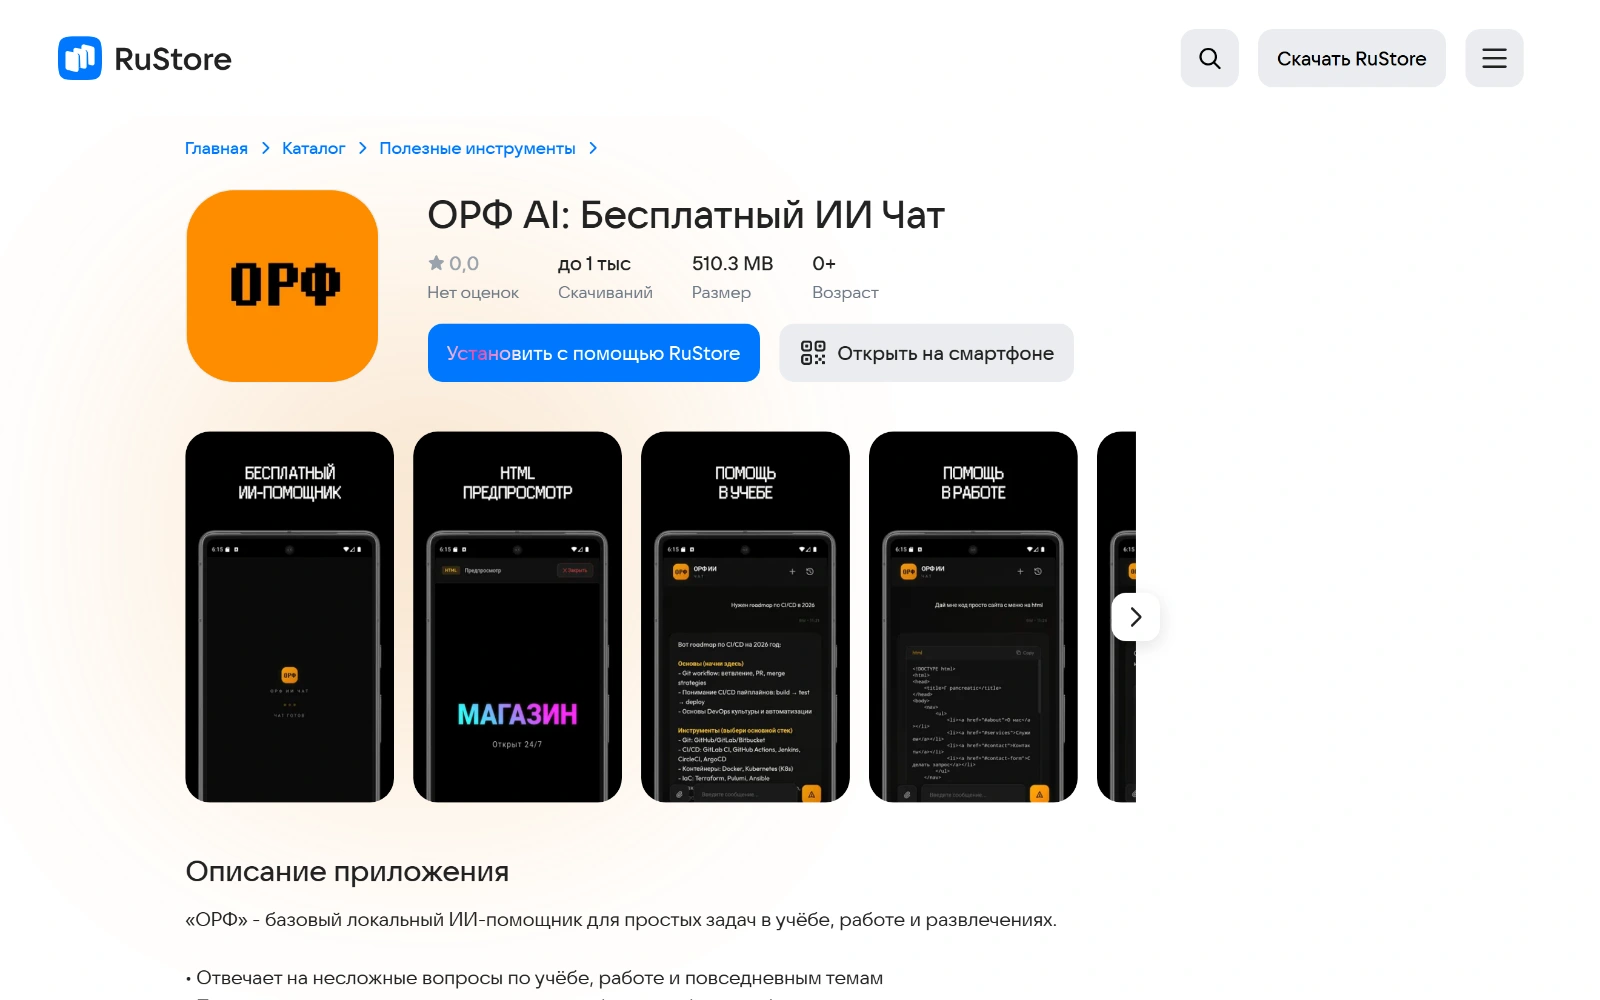
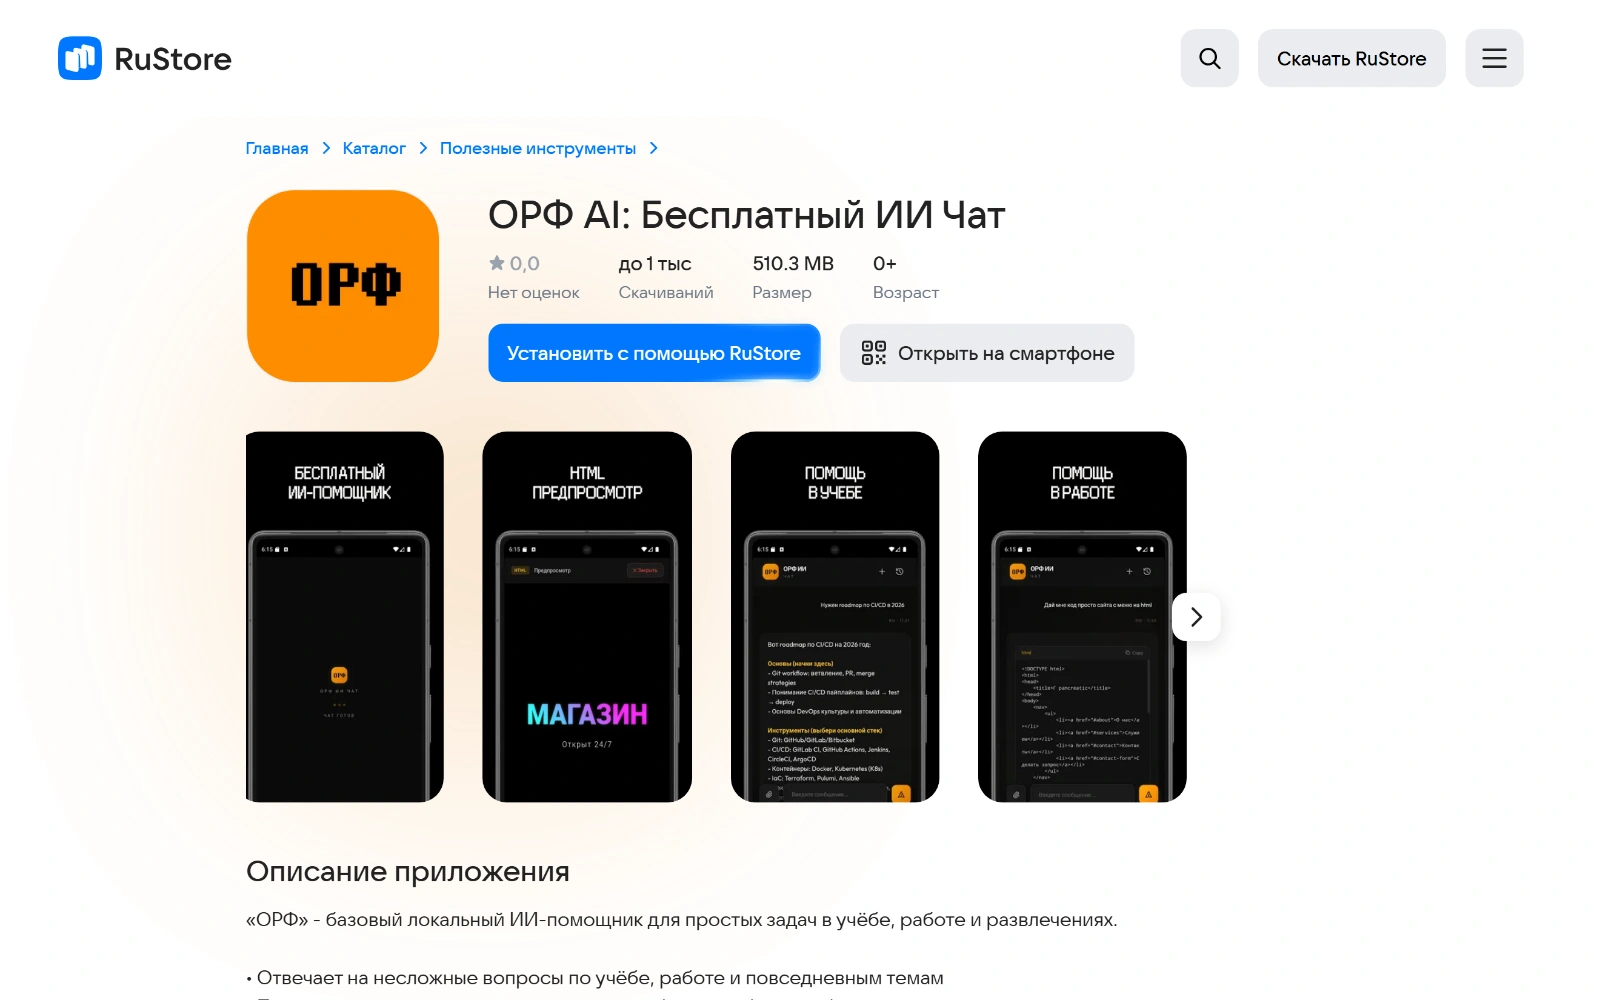
Update ORF preview

diff --git a/index.html b/index.html
@@ -59,5 +59,5 @@
 <footer class="ftr"><div class="wrap ftr__in"><span>© <span id="year">2026</span> Дмитрий О.</span><button class="totop" id="totop" type="button">↑ TOP</button></div></footer>
 <div class="lb" id="lb" role="dialog" aria-modal="true" aria-label="Просмотр проекта" hidden><div class="lb__back" data-lb-close></div><button class="lb__x" type="button" aria-label="Закрыть" data-lb-close>×</button><button class="lb__nav lb__nav--prev" type="button" aria-label="Предыдущий проект" id="lbPrev">←</button><button class="lb__nav lb__nav--next" type="button" aria-label="Следующий проект" id="lbNext">→</button><figure class="lb__fig"><div class="lb__media"><img id="lbImg" alt=""><video id="lbVid" hidden muted loop playsinline controls></video></div><div class="lb__shots" id="lbShots" hidden></div><figcaption class="lb__cap"><div><span class="lb__label">PROJECT / PREVIEW</span><h3 id="lbTitle"></h3><p id="lbDesc"></p></div><a class="btn btn--primary lb__go" id="lbGo" href="#" target="_blank" rel="noopener"><span id="lbGoTxt">Открыть</span> ↗</a></figcaption></figure></div>
 <div class="demo" id="demo" role="dialog" aria-modal="true" aria-label="Демо проекта" hidden><div class="demo__back" data-demo-close></div><div class="demo__ui"><span class="demo__name" id="demoTitle"></span><a class="demo__ext" id="demoExt" href="#" target="_blank" rel="noopener">Открыть ↗</a><button class="demo__x" type="button" aria-label="Закрыть" data-demo-close>×</button></div><div class="demo__mon" id="demoMon"><div class="demo__bezel"><div class="demo__screen" id="demoScreen"><p class="demo__fail" id="demoFail" hidden>Демо не загрузилось. <a id="demoFailLink" href="#" target="_blank">Открыть в новой вкладке</a>.</p></div><span class="demo__led"></span></div><div class="demo__stand"></div></div></div>
-<script src="assets/data/projects.js?v=20261116b"></script><script src="assets/js/app.js"></script>
+<script src="assets/data/projects.js?v=20261116c"></script><script src="assets/js/app.js"></script>
 </body></html>

diff --git a/assets/data/projects.js b/assets/data/projects.js
@@ -257,8 +257,10 @@ window.PROJECTS = [
   // Telegram-бот убраны; вернуть - снова прописать web и tg в links.
   // 2026-11-16: кадр переснят с живой страницы в 2x DPI и подан в 1600x1000
   // WebP q94: старый 1280x800 / 45 КБ выглядел мылом на широкой карточке.
-  // ?v= сбрасывает кеш - у Pages max-age=600. Сайдбар RuStore скрыт, контент
-  // центрирован, композиция (иконка, кнопки, четыре телефона) сохранена.
+  // ?v= сбрасывает кеш - у Pages max-age=600. Сайдбар RuStore скрыт, main
+  // сужен до 900 px и отцентрирован, пятая карточка карусели спрятана:
+  // четыре телефона и шапка (иконка, кнопки) стоят симметрично, как в
+  // изначальном кадре, без пустоты справа.
   {
     title: 'ОРФ AI',
     kind: 'AI-продукт',
@@ -269,7 +271,7 @@ window.PROJECTS = [
     // 2026-11-16: широкая половина пары с Dubbed (7 вместо 5), раньше она была
     // у правой карточки. В парах 6/6 флаг ничего не делает.
     wide: true,
-    shot: 'assets/img/projects/rustore.webp?v=20261116b',
+    shot: 'assets/img/projects/rustore.webp?v=20261116c',
     shotPos: '50% 0%',
     links: {
       demo: 'https://www.rustore.ru/catalog/app/com.orfree.app',
